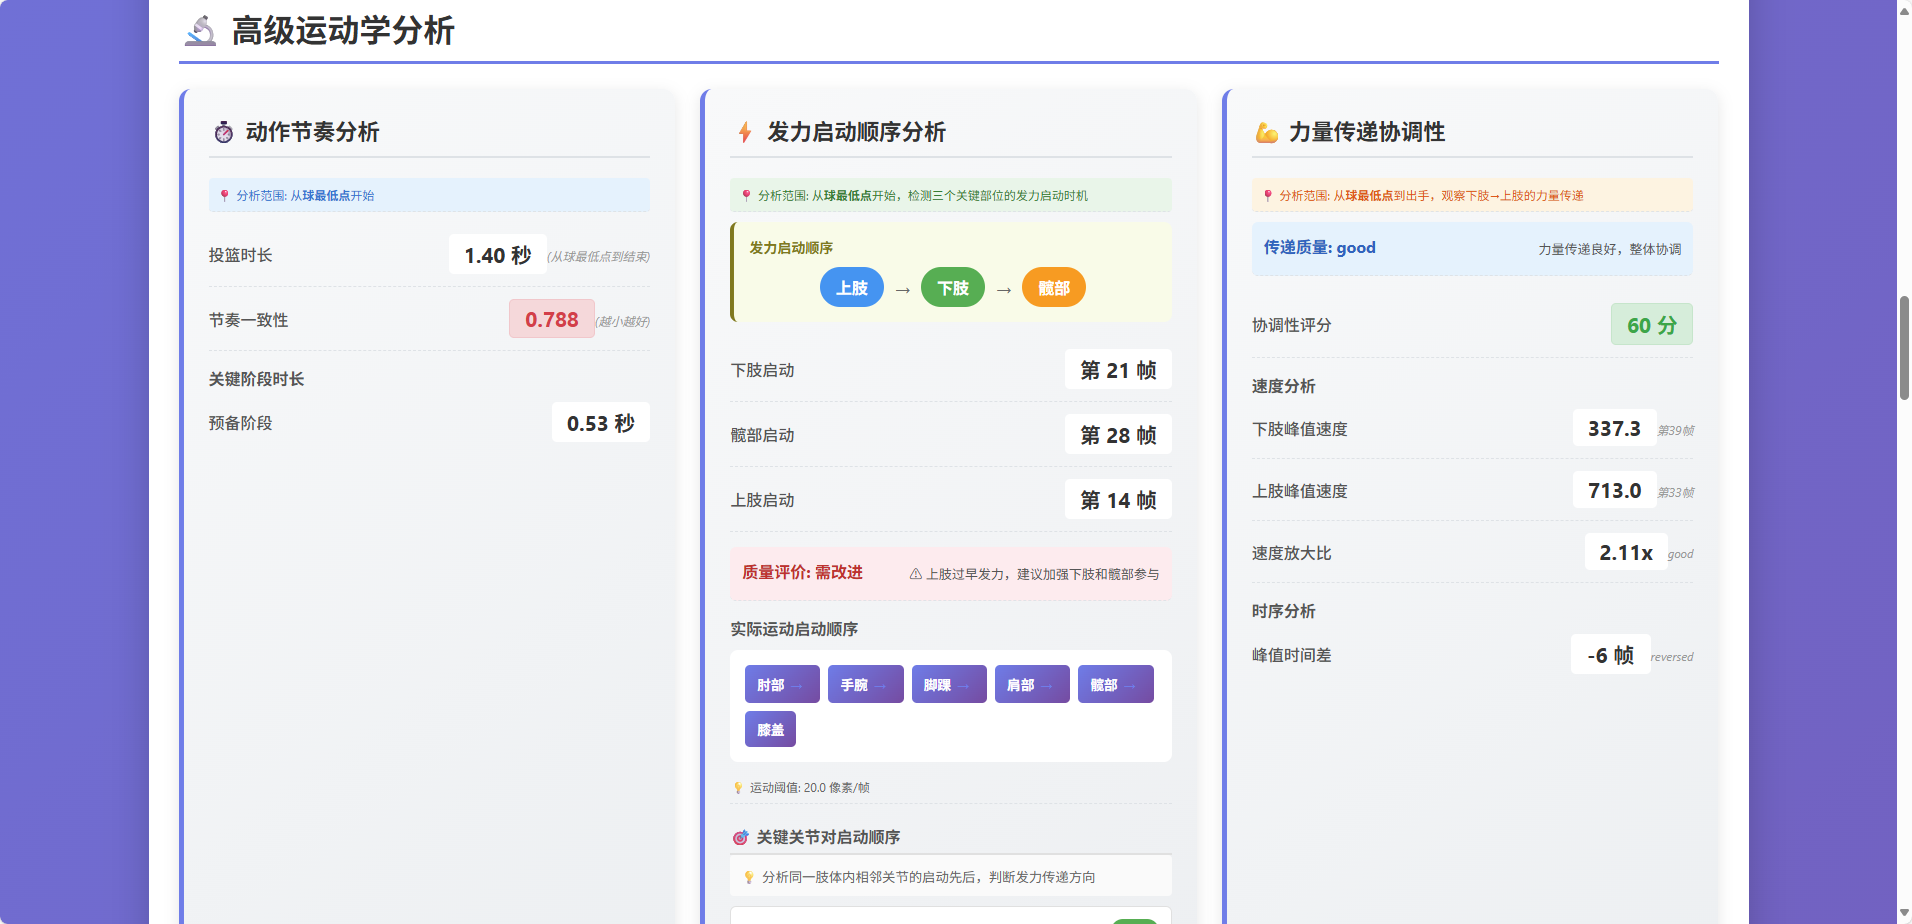
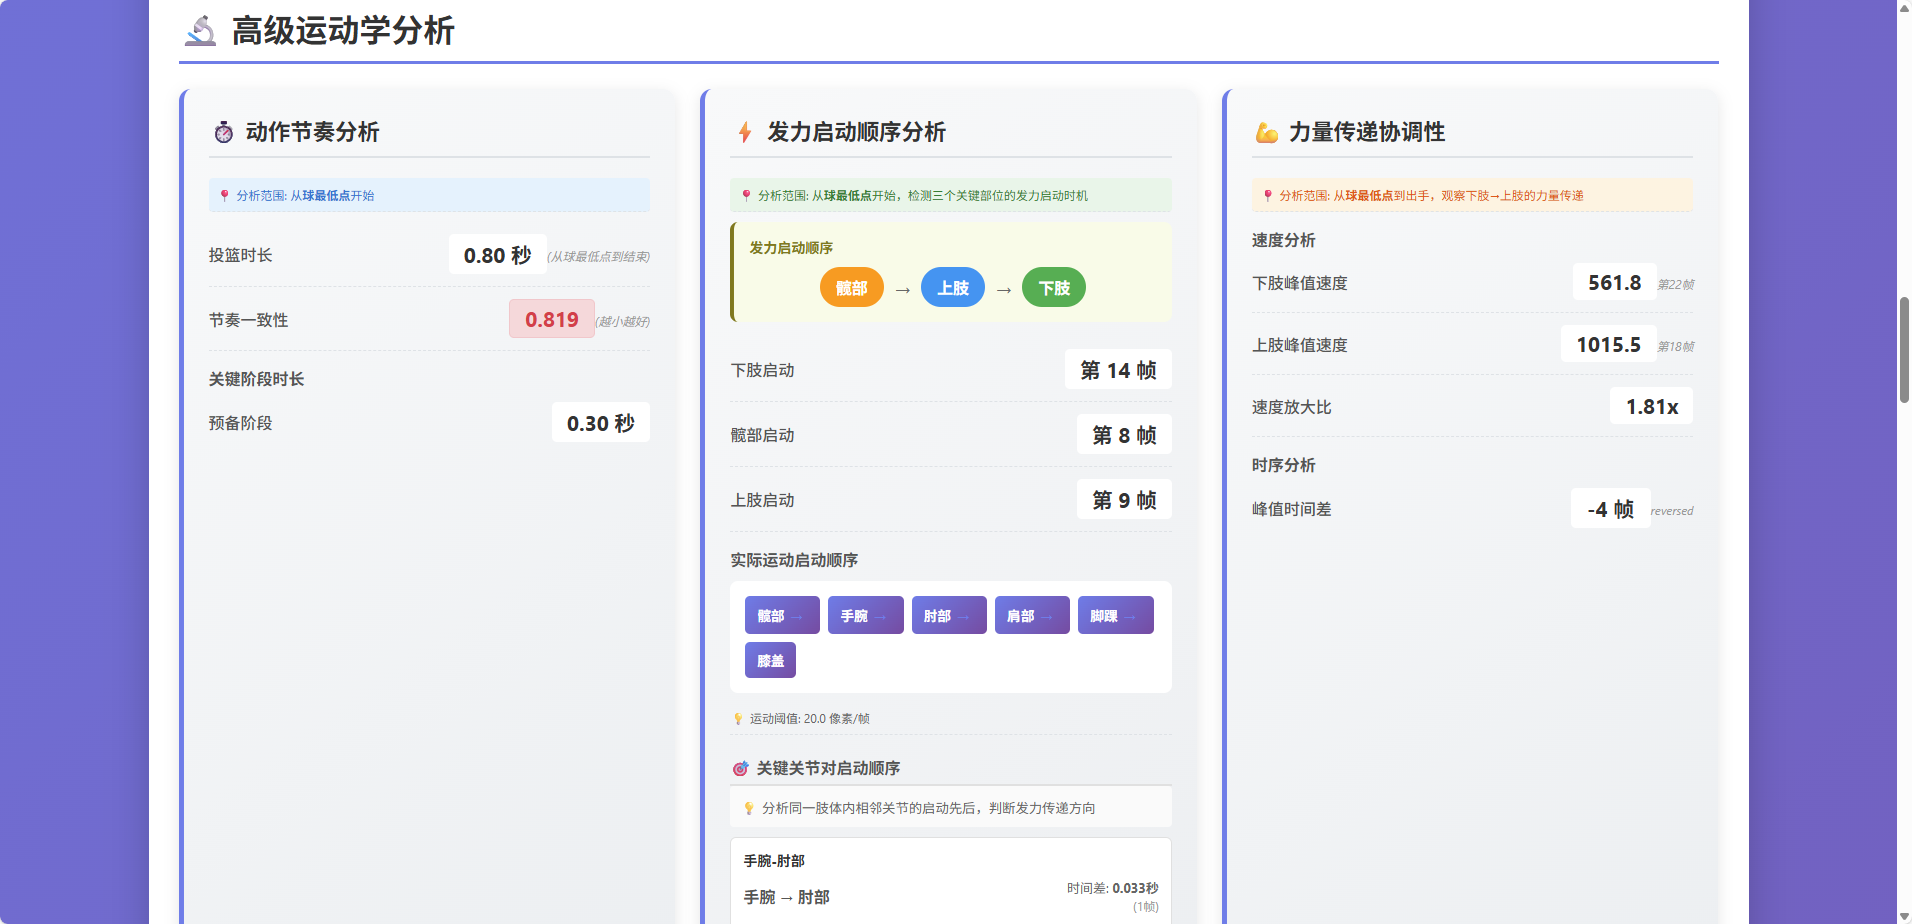
Update demo picture

diff --git a/templates/basketball_report.html b/templates/basketball_report.html
@@ -192,27 +192,6 @@
                     </div>
                     {% endif %}
                     
-                    <!-- 模式评价 -->
-                    <div class="metric-item" style="margin-top: 15px; padding: 12px; background: 
-                        {% if pattern['quality'] == 'excellent' %}#e8f5e9
-                        {% elif pattern['quality'] == 'good' %}#fff3e0
-                        {% elif pattern['quality'] == 'needs_improvement' %}#ffebee
-                        {% else %}#f5f5f5{% endif %}; border-radius: 6px;">
-                        <span style="display: block; font-weight: bold; margin-bottom: 5px; color: 
-                            {% if pattern['quality'] == 'excellent' %}#2e7d32
-                            {% elif pattern['quality'] == 'good' %}#f57c00
-                            {% elif pattern['quality'] == 'needs_improvement' %}#c62828
-                            {% else %}#666{% endif %};">
-                            质量评价: 
-                            {% if pattern['quality'] == 'excellent' %}优秀
-                            {% elif pattern['quality'] == 'good' %}良好
-                            {% elif pattern['quality'] == 'needs_improvement' %}需改进
-                            {% else %}未知{% endif %}
-                        </span>
-                        <span style="font-size: 13px; color: #555;">{{ pattern['description'] }}</span>
-                    </div>
-                    {% endif %}
-                    
                     {% if force_sequence.get('actual_sequence') %}
                     <h4 style="margin-top: 15px; color: #555;">实际运动启动顺序</h4>
                     <div class="force-chain">
@@ -253,14 +232,6 @@
                         <div style="display: flex; justify-content: space-between; align-items: center; margin-bottom: 8px;">
                             <span style="font-weight: bold; color: #333; font-size: 14px;">
                                 {{ pair['pair_name'] }}
-                            </span>
-                            <span style="background: 
-                                {% if pair['evaluation'] == '较好' or pair['evaluation'] == '协调' %}#4caf50
-                                {% elif pair['evaluation'] == '正常' %}#ff9800
-                                {% elif pair['evaluation'] == '需注意' %}#f44336
-                                {% else %}#9e9e9e{% endif %}; 
-                                color: white; padding: 4px 12px; border-radius: 12px; font-size: 12px;">
-                                {{ pair['evaluation'] }}
                             </span>
                         </div>
                         
@@ -314,25 +285,6 @@
                         </span>
                     </div>
                     
-                    <!-- 综合评价 -->
-                    {% if energy_transfer.get('transfer_quality') %}
-                    <div class="metric-item" style="padding: 12px; background: #e3f2fd; border-radius: 6px; margin-bottom: 15px;">
-                        <span style="display: block; font-weight: bold; margin-bottom: 5px; color: #1565c0;">
-                            传递质量: {{ energy_transfer.get('transfer_quality', '未知') }}
-                        </span>
-                        <span style="font-size: 13px; color: #555;">
-                            {{ energy_transfer.get('quality_description', '暂无评价') }}
-                        </span>
-                    </div>
-                    
-                    <!-- 协调性评分 -->
-                    <div class="metric-item">
-                        <span class="metric-label">协调性评分</span>
-                        <span class="metric-value good">
-                            {{ "%.0f"|format(energy_transfer.get('coordination_score', 0)) }} 分
-                        </span>
-                    </div>
-                    
                     <h4 style="margin-top: 15px; color: #555;">速度分析</h4>
                     <div class="metric-item">
                         <span class="metric-label">下肢峰值速度</span>
@@ -347,7 +299,6 @@
                     <div class="metric-item">
                         <span class="metric-label">速度放大比</span>
                         <span class="metric-value">{{ "%.2f"|format(energy_transfer.get('velocity_ratio', 0)) }}x</span>
-                        <small class="metric-hint">{{ energy_transfer.get('amplification_quality', '') }}</small>
                     </div>
                     
                     <h4 style="margin-top: 15px; color: #555;">时序分析</h4>

diff --git a/sports/basketball/metrics.py b/sports/basketball/metrics.py
@@ -606,15 +606,12 @@ class BasketballMetrics:
                 if frame_diff > 0:
                     first = pair['joint1_cn']
                     sequence = f"{pair['joint1_cn']} → {pair['joint2_cn']}"
-                    evaluation = "正常" if pair['category'] == 'upper_arm' else "较好"
                 elif frame_diff < 0:
                     first = pair['joint2_cn']
                     sequence = f"{pair['joint2_cn']} → {pair['joint1_cn']}"
-                    evaluation = "较好" if pair['category'] == 'upper_arm' else "需注意"
                 else:
                     first = "同时"
                     sequence = f"{pair['joint1_cn']} ≈ {pair['joint2_cn']}"
-                    evaluation = "协调"
 
                 pairs_result.append({
                     'pair_name': pair['name'],
@@ -628,7 +625,6 @@ class BasketballMetrics:
                     'time_diff_seconds': time_diff,
                     'first_to_move': first,
                     'sequence': sequence,
-                    'evaluation': evaluation,
                     'category': pair['category']
                 })
             else:
@@ -645,7 +641,6 @@ class BasketballMetrics:
                     'time_diff_seconds': None,
                     'first_to_move': '未检测',
                     'sequence': '数据缺失',
-                    'evaluation': '无法评估',
                     'category': pair['category']
                 })
 
@@ -704,7 +699,6 @@ class BasketballMetrics:
             return {
                 'pattern_type': 'incomplete_data',
                 'description': '数据不完整，无法判断运动模式',
-                'quality': 'unknown',
                 'key_parts': {
                     'lower': None,
                     'hip': None,
@@ -736,51 +730,42 @@ class BasketballMetrics:
             'upper_vs_lower': upper_start - lower_start
         }
 
-        # 判断模式类型和质量
+        # 判断模式类型
         if initiation_order == ['lower', 'hip', 'upper']:
             # 理想顺序：下肢 → 髋部 → 上肢
             pattern_type = 'lower_hip_upper'
-            description = '✓ 理想发力链：下肢 → 髋部 → 上肢，符合良好投篮力学'
-            quality = 'excellent'
+            description = '下肢 → 髋部 → 上肢'
         elif initiation_order[0] == 'hip':
             # 髋部先启动
             if initiation_order == ['hip', 'lower', 'upper']:
                 pattern_type = 'hip_lower_upper'
-                description = '髋部主导发力，下肢紧随，整体协调性较好'
-                quality = 'good'
+                description = '髋部 → 下肢 → 上肢'
             elif initiation_order == ['hip', 'upper', 'lower']:
                 pattern_type = 'hip_upper_lower'
-                description = '⚠ 髋部先发力但上肢过早介入，下肢参与不足'
-                quality = 'needs_improvement'
+                description = '髋部 → 上肢 → 下肢'
             else:
                 pattern_type = 'hip_first'
                 description = '髋部主导发力'
-                quality = 'good'
         elif initiation_order[0] == 'lower':
             # 下肢先启动
             if abs(time_diffs['upper_vs_lower']) <= 2:
                 # 如果上下肢时间差很小（≤2帧）
                 pattern_type = 'lower_synchronized'
-                description = '下肢启动，上下肢协同发力良好'
-                quality = 'good'
+                description = '下肢启动，上下肢协同发力'
             else:
                 pattern_type = 'lower_first'
-                description = '下肢主导发力，力量传递顺畅'
-                quality = 'good'
+                description = '下肢主导发力'
         elif initiation_order[0] == 'upper':
-            # 上肢先启动（不理想）
+            # 上肢先启动
             pattern_type = 'upper_first'
-            description = '⚠ 上肢过早发力，建议加强下肢和髋部参与'
-            quality = 'needs_improvement'
+            description = '上肢先启动'
         else:
             pattern_type = 'unknown'
             description = '运动模式无法分类'
-            quality = 'unknown'
 
         return {
             'pattern_type': pattern_type,
             'description': description,
-            'quality': quality,
             'initiation_order': initiation_order,
             'key_parts': {
                 'lower': lower_start,
@@ -796,7 +781,7 @@ class BasketballMetrics:
         """
         计算能量传递效率
 
-        改进版：不再使用"效率百分比"，而是分析：
+        分析：
         1. 下肢是否产生了初始动能
         2. 上肢是否获得了加速（力量传递的证据）
         3. 整体协调性（速度峰值的时间顺序）
@@ -822,7 +807,6 @@ class BasketballMetrics:
 
         if start_frame >= end_frame:
             return {
-                'transfer_quality': 'insufficient_data',
                 'lower_body_peak_velocity': 0.0,
                 'upper_body_peak_velocity': 0.0,
                 'velocity_ratio': 0.0,
@@ -830,7 +814,6 @@ class BasketballMetrics:
                 'lower_peak_frame': 0,
                 'upper_peak_frame': 0,
                 'timing_difference': 0,
-                'coordination_score': 0.0,
                 'analysis_range': {
                     'start_frame': start_frame,
                     'end_frame': end_frame,
@@ -861,7 +844,6 @@ class BasketballMetrics:
 
         if not lower_body_velocities or not upper_body_velocities:
             return {
-                'transfer_quality': 'insufficient_data',
                 'lower_body_peak_velocity': 0.0,
                 'upper_body_peak_velocity': 0.0,
                 'velocity_ratio': 0.0,
@@ -869,7 +851,6 @@ class BasketballMetrics:
                 'lower_peak_frame': 0,
                 'upper_peak_frame': 0,
                 'timing_difference': 0,
-                'coordination_score': 0.0,
                 'analysis_range': {
                     'start_frame': start_frame,
                     'end_frame': end_frame,
@@ -893,76 +874,22 @@ class BasketballMetrics:
         if timing_difference > 3:
             # 上肢峰值明显晚于下肢（正常的力量传递链）
             transfer_timing = 'sequential'
-            timing_quality = 'good'
         elif timing_difference >= 0:
             # 上肢峰值稍晚或同时
             transfer_timing = 'synchronized'
-            timing_quality = 'acceptable'
         else:
-            # 上肢峰值早于下肢（不理想）
+            # 上肢峰值早于下肢
             transfer_timing = 'reversed'
-            timing_quality = 'poor'
 
         # 计算速度放大比（上肢相对于下肢的加速效果）
-        # 正常情况下上肢速度应该更大（末端加速原理）
         velocity_ratio = upper_peak_velocity / \
             lower_peak_velocity if lower_peak_velocity > 0 else 0.0
 
-        # 判断速度放大是否合理
-        if velocity_ratio >= 1.2:
-            # 上肢速度显著大于下肢（良好的末端加速）
-            amplification_quality = 'good'
-        elif velocity_ratio >= 0.8:
-            # 速度相当
-            amplification_quality = 'acceptable'
-        else:
-            # 上肢速度不足
-            amplification_quality = 'poor'
-
-        # 综合协调性评分（0-100分）
-        # 基于时序和速度放大的综合评价
-        timing_score = 0
-        if timing_quality == 'good':
-            timing_score = 60
-        elif timing_quality == 'acceptable':
-            timing_score = 40
-        else:
-            timing_score = 20
-
-        amplification_score = 0
-        if amplification_quality == 'good':
-            amplification_score = 40
-        elif amplification_quality == 'acceptable':
-            amplification_score = 25
-        else:
-            amplification_score = 10
-
-        coordination_score = timing_score + amplification_score
-
-        # 综合质量评价
-        if coordination_score >= 80:
-            transfer_quality = 'excellent'
-            quality_description = '力量传递顺畅，动作协调性优秀'
-        elif coordination_score >= 60:
-            transfer_quality = 'good'
-            quality_description = '力量传递良好，整体协调'
-        elif coordination_score >= 40:
-            transfer_quality = 'acceptable'
-            quality_description = '力量传递基本合理，有改进空间'
-        else:
-            transfer_quality = 'poor'
-            quality_description = '力量传递不足，需要改进动作连贯性'
-
         return {
-            'transfer_quality': transfer_quality,
-            'quality_description': quality_description,
-            'coordination_score': float(coordination_score),
             'lower_body_peak_velocity': float(lower_peak_velocity),
             'upper_body_peak_velocity': float(upper_peak_velocity),
             'velocity_ratio': float(velocity_ratio),
             'transfer_timing': transfer_timing,
-            'timing_quality': timing_quality,
-            'amplification_quality': amplification_quality,
             'lower_peak_frame': int(lower_peak_frame),
             'upper_peak_frame': int(upper_peak_frame),
             'timing_difference': int(timing_difference),

diff --git a/main.py b/main.py
@@ -311,15 +311,14 @@ def perform_analysis() -> Optional[str]:
             print(f"  🎯 节奏一致性: {rhythm.get('rhythm_consistency', 0):.3f}")
 
         force_seq = analysis_results.get('force_sequence', {})
-        if force_seq:
-            print(
-                f"  ⚡ 发力顺序: {'✓ 正确' if force_seq.get('sequence_correct') else '✗ 需改进'}")
-            print(f"  🔗 发力链效率: {force_seq.get('chain_efficiency', 0):.2f}")
+        if force_seq and 'movement_pattern' in force_seq:
+            pattern = force_seq['movement_pattern']
+            print(f"  ⚡ 发力模式: {pattern.get('description', '未知')}")
 
         energy = analysis_results.get('energy_transfer', {})
         if energy:
-            print(f"  💪 能量传递效率: {energy.get('efficiency', 0)*100:.1f}%")
-            print(f"  📉 能量损失: {energy.get('energy_loss', 0)*100:.1f}%")
+            print(f"  💪 速度放大比: {energy.get('velocity_ratio', 0):.2f}x")
+            print(f"  ⏱  传递时序: {energy.get('transfer_timing', '未知')}")
 
         # 4. 生成报表
         if generate_report:

diff --git a/core/report_generator.py b/core/report_generator.py
@@ -289,14 +289,6 @@ class ReportGenerator:
         <p><strong>对比对象:</strong> {label1} vs {label2}</p>
         <p><strong>生成时间:</strong> {template_data['generation_time']}</p>
         
-        <h2>📊 整体相似度评分</h2>
-        <div class="similarity-score">
-            {comparison.get('curve_similarity', {}).get('overall_similarity_score', 0)*100:.1f}%
-        </div>
-        <p style="text-align: center; color: #7f8c8d;">
-            基于角度和速度曲线的整体相似度分析
-        </p>
-        
         <h2>⏱ 整体指标对比</h2>
         <div class="metric-grid">
 """

diff --git a/sports/basketball/keyframe_detector.py b/sports/basketball/keyframe_detector.py
@@ -485,7 +485,7 @@ class KeyframeDetector:
         return {
             "index": idx,
             "frame_data": frames_data[idx],
-            "description": f"出手定点（得分:{scores[idx]:.1f}）"
+            "description": "出手定点"
         }
 
     @staticmethod
@@ -640,7 +640,7 @@ class KeyframeDetector:
         return {
             "index": idx,
             "frame_data": frames_data[idx],
-            "description": f"出手瞬间（得分:{scores[idx]:.1f}）"
+            "description": "出手瞬间"
         }
 
     @staticmethod
